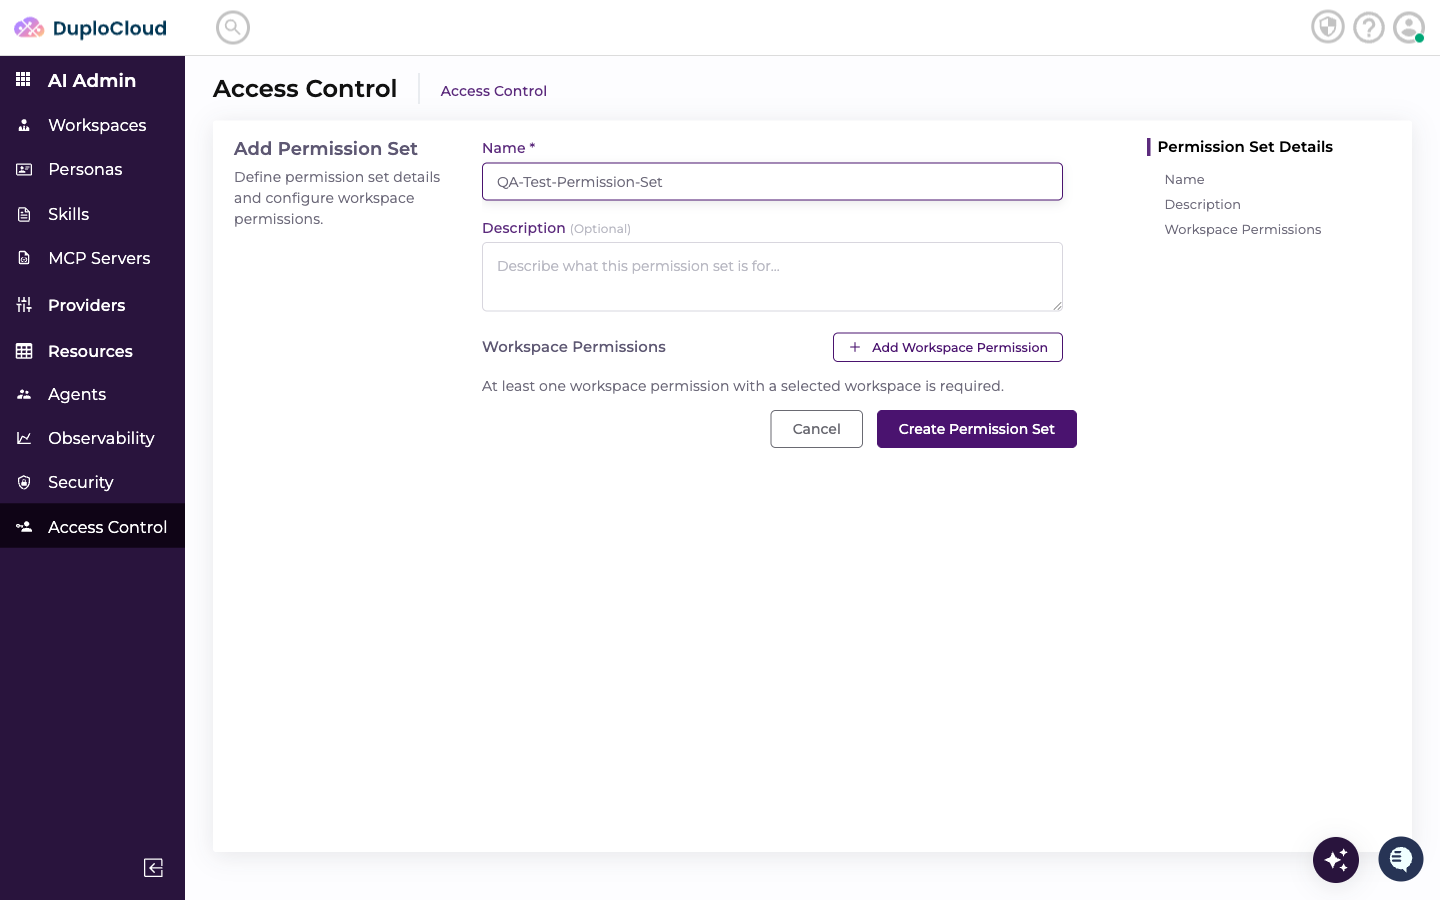
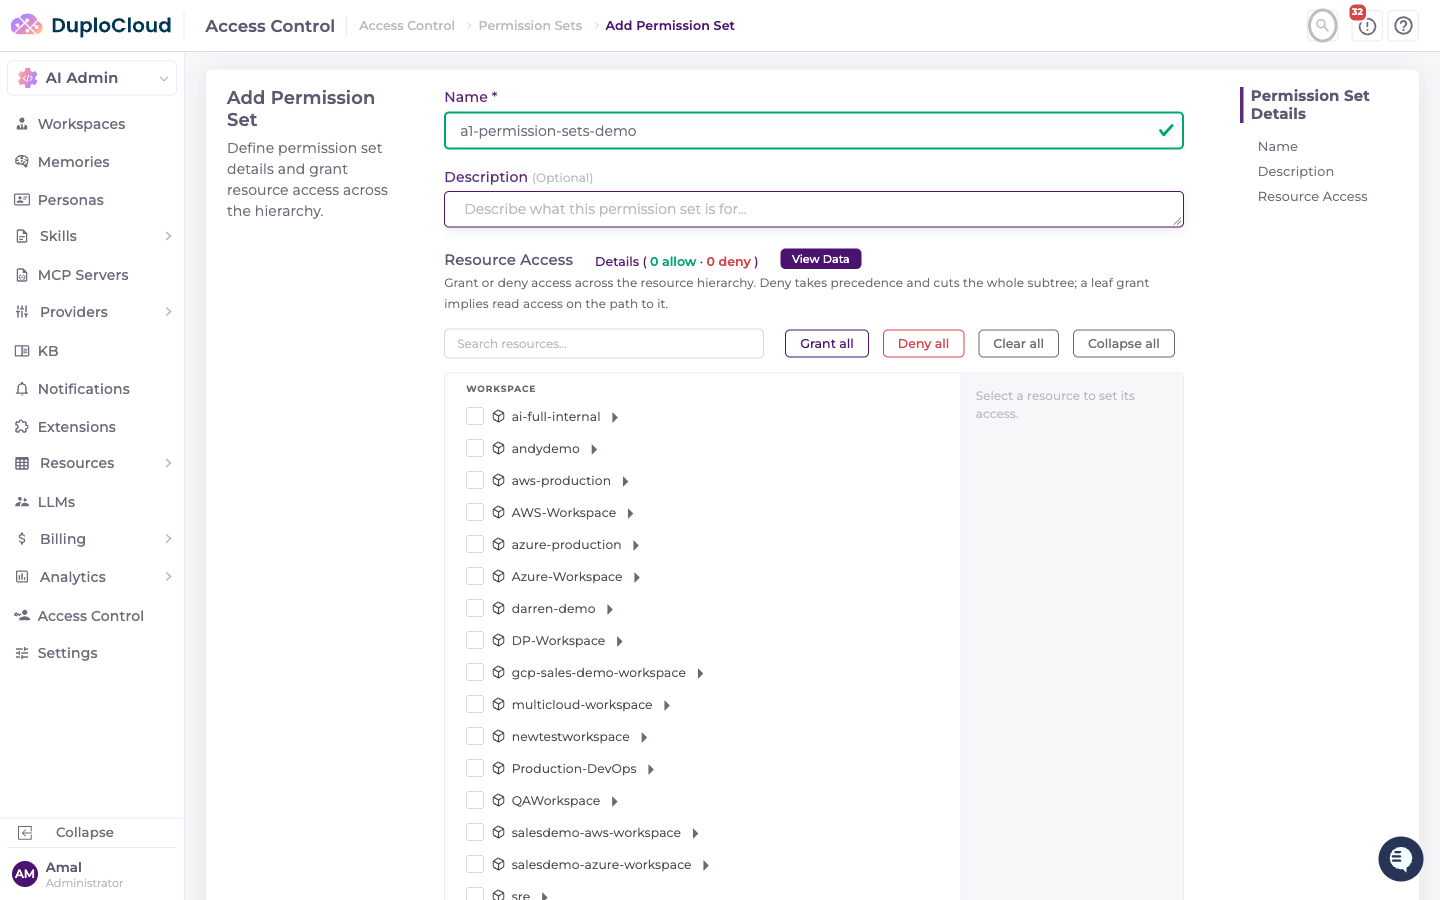
Update armor/access-control/permission-sets.md for new portal shell (A1)
- Full rewrite: the workspace-permission modal is gone. Scope restriction now
  lives in a per-node Allow/Deny panel inside a single Resource Access tree
  (Verbs / Scopes / Actions axes), matching the fine-grained access redesign.
- Added a worked example combining an Allow (workspace scopes) with a Deny
  on a Cluster subtree, to show Allow/Deny precedence and subtree cutoff.
- Added a short section distinguishing permission-set Scopes (which scopes
  a user may invoke) from a resource's own scope binding (e.g. a Cluster's
  scopeId) -- this is what confused a customer in Slack #duplocloud-ai
  (2026-10-22, Matt Herrick / Jeeva Kumar / Anamika Singh).
- Added a cross-link to user-groups.md for assigning the set to a user.
- Recaptured all screenshots (all were pre-redesign, dated 2026-04-14);
  dropped the duplicate embed and the borrowed users-step-01 image, giving
  this page its own step-01 shot; removed 9 now-unreferenced old assets.
- Verified against duplo-ui origin/master (94c7dfca1) and duplo-ai-helpdesk
  origin/main (729394d0e).

diff --git a/armor/access-control/permission-sets.md b/armor/access-control/permission-sets.md
@@ -2,6 +2,8 @@
 
 This document explains how to create a new Permission Set in the DuploCloud AI Suite Access Control panel.
 
+A permission set is a reusable bundle of access rules. It isn't tied to a workspace by itself — you attach it to a user or a group (see [User Groups](user-groups.md)) and define, inside the set, which workspaces and resources it allows or denies.
+
 ***
 
 ## Prerequisites
@@ -15,23 +17,23 @@ This document explains how to create a new Permission Set in the DuploCloud AI S
 
 Go to **AI Admin → Access Control** in the left-hand navigation. The page opens on the **Permissions** tab by default, which lists all existing permission sets.
 
-![Step 1 — Permissions tab](../../.gitbook/assets/users-step-01-access-control.png)
+![Step 1 — Permissions tab](../../.gitbook/assets/permission-sets-step-01-list.png)
 
 ***
 
 ## Step 2 — Click "Add"
 
-In the top-right corner, click the **+ Add** button. The Add Permission Set form slides in.
+In the top-right corner, click the **+ Add** button. The Add Permission Set page opens with a **Name** field, a **Description** field, and a **Resource Access** panel — a tree of every workspace, and everything underneath each workspace (clusters, environments, networks, projects, and so on).
 
-![Step 2 — Add Permission Set form](../../.gitbook/assets/permission-sets-step-02-form-opened.png)
+![Step 2 — Add Permission Set page](../../.gitbook/assets/permission-sets-step-02-add-empty.png)
+
+The toolbar above the tree has shortcuts for bulk edits — **Grant all**, **Deny all**, **Clear all** — plus **Collapse all** and a resource search box.
 
 ***
 
 ## Step 3 — Enter a Name
 
 Click the **Name** field and type a name for the permission set.
-
-In this example: `QA-Test-Permission-Set`
 
 ![Step 3 — Name filled](../../.gitbook/assets/permission-sets-step-03-name-filled.png)
 
@@ -45,72 +47,74 @@ Click the **Description** textarea and describe the purpose of this permission s
 
 ***
 
-## Step 5 — Open the Workspace Permission Modal
+## Step 5 — Select a Resource
 
-Click **+ Add Workspace Permission**. A modal dialog opens with fields for:
+Click a resource in the tree. In this example, a workspace. Selecting it opens a detail panel on the right with that resource's access settings — this panel is where scope and resource access are now configured (this replaced the old "Add Workspace Permission" modal).
 
-| Field          | Purpose                                          |
-| -------------- | ------------------------------------------------ |
-| Workspace      | The workspace this permission applies to         |
-| Allowed Scopes | Resources the user can access                    |
-| Denied Scopes  | Resources explicitly blocked                     |
-| Allowed Agents | AI agents the user can use (empty = all allowed) |
-| Denied Agents  | AI agents explicitly blocked                     |
+By default a resource is set to **Inherit**, meaning it carries no rule of its own and falls back to whatever an ancestor resource (or the absence of one) decides.
 
-![Step 5 — Add Workspace Permission modal](../../.gitbook/assets/permission-sets-step-05-workspace-modal.png)
+![Step 5 — Resource selected](../../.gitbook/assets/permission-sets-step-05-workspace-selected.png)
 
 ***
 
-## Step 6 — Select the Workspace
+## Step 6 — Set Access to Allow
 
-Click the **Workspace** dropdown and select the target workspace.
+Click **Allow** in the detail panel. Three sets of controls appear:
 
-In this example: `Production-DevOps`
+| Axis | Purpose |
+|------|---------|
+| Verbs | GET / PUT / POST / DELETE, or ALL |
+| Scopes | Workspace-level only — which cloud/Kubernetes scopes in this workspace the rule covers |
+| Actions | Named actions (e.g. `aws.jit`) grantable on this resource or its subtree |
 
-![Step 6 — Workspace selected](../../.gitbook/assets/permission-sets-step-06-workspace-selected.png)
+![Step 6 — Allow mode](../../.gitbook/assets/permission-sets-step-06-allow-mode.png)
 
-***
-
-## Step 7 — Select Allowed Scopes
-
-Click the **Allowed Scopes** dropdown and select the scopes to grant access to. You can select multiple.
-
-In this example: `jira` and `aws-prod-scope`
-
-![Step 7 — Scopes selected](../../.gitbook/assets/permission-sets-step-08-agents-all.png)
+**Scopes only appear on a workspace node** — a scope belongs to a workspace, so this control has no effect on a rule set lower in the tree (a cluster, a network, etc.).
 
 ***
 
-## Step 8 — Allow All Agents
+## Step 7 — Choose Scopes
 
-Leave the **Allowed Agents** field empty to allow access to all agents. No selection is required.
+Check the individual scopes this rule should cover, or check **All scopes** to cover every scope in the workspace — including ones added to the workspace later.
 
-![Step 8 — Agents left empty (all allowed)](../../.gitbook/assets/permission-sets-step-08-agents-all.png)
-
-***
-
-## Step 9 — Confirm the Workspace Permission
-
-Click the **Add** button inside the modal to save the workspace permission entry.
-
-![Step 9 — Workspace permission added](../../.gitbook/assets/permission-sets-step-09-workspace-permission-added.png)
+![Step 7 — Scopes selected](../../.gitbook/assets/permission-sets-step-07-scopes-selected.png)
 
 ***
 
-## Step 10 — Submit the Form
+## Step 8 — Deny Access to a Specific Resource
 
-Review the completed permission set form, then click **Create Permission Set**.
+Allow and Deny rules can be combined in the same permission set at different points in the tree. Expand the workspace and select a resource type underneath it — in this example, **Cluster** — then click **Deny** and select **ALL** verbs.
 
-![Step 10 — Before submit](../../.gitbook/assets/permission-sets-step-10-before-submit.png)
+![Step 8 — Deny on a subtree](../../.gitbook/assets/permission-sets-step-08-deny-subtree.png)
 
-A green **Success** toast confirms the permission set was saved.
-
-![Step 11 — After submit](../../.gitbook/assets/permission-sets-step-12-final-list.png)
+A Deny rule always covers that resource's entire subtree, and **Deny takes precedence over Allow** wherever the two overlap. In this example the permission set grants the workspace's two scopes but blocks every cluster inside it — a common pattern for an "ops access, no cluster access" role.
 
 ***
 
-## Step 11 — Verify in the List
+## Step 9 — Submit the Form
 
-The new permission set appears at the top of the Permissions table with the associated workspace.
+Review the completed permission set — the **Resource Access** heading shows a running count of allow/deny rules — then click **Create Permission Set**. A green **Success** toast confirms it was saved.
 
-![Step 12 — Final permissions list](../../.gitbook/assets/permission-sets-step-12-final-list.png)
+![Step 9 — Success toast](../../.gitbook/assets/permission-sets-step-09-success-toast.png)
+
+***
+
+## Step 10 — Verify in the List
+
+The new permission set appears in the Permissions table with its workspace and grant counts.
+
+![Step 10 — Final permissions list](../../.gitbook/assets/permission-sets-step-10-final-list.png)
+
+***
+
+## How Scopes Relate to Imported Clusters and Networks
+
+A permission set's **Scopes** control decides which cloud/Kubernetes scopes a *user* is allowed to invoke — for example, to request just-in-time AWS credentials or look up cluster details. It's checked only against rules set directly on a Workspace node.
+
+This is a different thing from a resource's own **scope binding** — the cloud credential a specific Cluster or Network was created or imported with (for example, a cluster's own `scopeId`, the credential it uses to talk to its cloud account). That binding lives on the resource itself, lives outside the permission-set tree, and isn't something a permission set grants or inherits. A cluster doesn't "inherit" a scope from a permission set, and a permission set doesn't change which scope a cluster or network was provisioned with — it only controls whether the signed-in user is allowed to use a given scope at all.
+
+***
+
+## Assigning This Permission Set to a User
+
+Creating a permission set doesn't assign it to anyone. To attach it to a user or a group of users, see [User Groups](user-groups.md).
